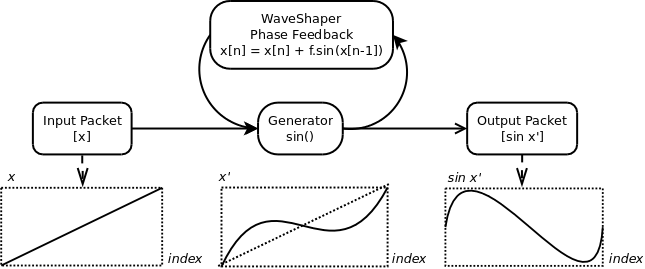
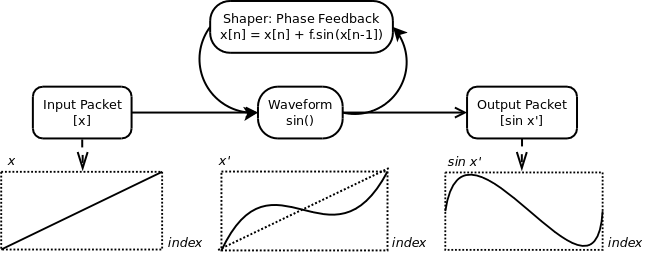
Renamed base class for waveforms and regenerated images for documentation

diff --git a/src/classmap.php b/src/classmap.php
@@ -42,9 +42,9 @@ const CLASS_MAP = [
   'ABadCafe\\Synth\\Signal\\Waveform\\Sine' => '/signal/waveform/Sine.php',
   'ABadCafe\\Synth\\Signal\\Waveform\\Factory' => '/signal/waveform/Factory.php',
   'ABadCafe\\Synth\\Signal\\Waveform\\Noise' => '/signal/waveform/Noise.php',
-  'ABadCafe\\Synth\\Signal\\Waveform\\Base' => '/signal/waveform/Base.php',
   'ABadCafe\\Synth\\Signal\\Waveform\\SawUp' => '/signal/waveform/Saw.php',
   'ABadCafe\\Synth\\Signal\\Waveform\\SawDown' => '/signal/waveform/Saw.php',
+  'ABadCafe\\Synth\\Signal\\Waveform\\Primitive' => '/signal/waveform/Primitive.php',
   'ABadCafe\\Synth\\Signal\\Waveform\\IShaper' => '/signal/waveform/Shaper.php',
   'ABadCafe\\Synth\\Signal\\Waveform\\WaveTable' => '/signal/waveform/Table.php',
   'ABadCafe\\Synth\\Signal\\Waveform\\Shaper\\FixedPhaseFeedback' => '/signal/waveform/shaper/FixedPhaseFeedback.php',

diff --git a/src/signal/waveform/Factory.php b/src/signal/waveform/Factory.php
@@ -91,7 +91,7 @@ class Factory implements Utility\IFactory {
             throw new \Exception("Invalid WaveTable length");
         }
         $oWaveform =  new Table($iSizeExp);
-        $oTableData = $oWaveform->getData();
+        $oTableData = $oWaveform->getValues();
         foreach ($oDesciption->data as $i => $fValue) {
             $oTableData[$i] = (float)$fValue;
         }

diff --git a/src/test/test_oscillator.php b/src/test/test_oscillator.php
@@ -27,7 +27,7 @@ $aWaveforms = [
     'table'         => new Signal\Waveform\Wavetable(8)
 ];
 
-$oTable = $aWaveforms['table']->getData();
+$oTable = $aWaveforms['table']->getValues();
 $fScale = 1.0 / count($oTable);
 foreach($oTable as $i => $fValue) {
     $oTable[$i] = (2 ** ($i * $fScale)) - 1.5;

diff --git a/src/signal/waveform/Primitive.php b/src/signal/waveform/Primitive.php
@@ -21,7 +21,7 @@ use ABadCafe\Synth\Signal;
 /**
  * Base class for non-flat generator functions
  */
-abstract class Base implements Signal\IWaveform {
+abstract class Primitive implements Signal\IWaveform {
 
     protected float
         $fMinLevel,

diff --git a/src/signal/waveform/Table.php b/src/signal/waveform/Table.php
@@ -50,7 +50,7 @@ class WaveTable implements Signal\IWaveform {
     /**
      * @return SPLFixedArray
      */
-    public function getData() : SPLFixedArray {
+    public function getValues() : SPLFixedArray {
         return $this->oTable;
     }
 

diff --git a/src/signal/waveform/Saw.php b/src/signal/waveform/Saw.php
@@ -24,7 +24,7 @@ use \SPLFixedArray;
  *
  * Maps input values to a upwards sawtooth output.
  */
-class SawUp extends Base {
+class SawUp extends Primitive {
 
     const F_PERIOD  = 1.0;
 

diff --git a/src/signal/waveform/Sine.php b/src/signal/waveform/Sine.php
@@ -24,7 +24,7 @@ use \SPLFixedArray;
  *
  * Maps input values to a sine wave output.
  */
-class Sine extends Base {
+class Sine extends Primitive {
 
     const F_PERIOD = 2.0 * M_PI;
 

diff --git a/src/signal/waveform/Square.php b/src/signal/waveform/Square.php
@@ -24,7 +24,7 @@ use \SPLFixedArray;
  *
  * Maps input values to a square output.
  */
-class Square extends Base {
+class Square extends Primitive {
 
     const F_PERIOD = 2.0;
 

diff --git a/src/signal/waveform/Triangle.php b/src/signal/waveform/Triangle.php
@@ -22,7 +22,7 @@ use \SPLFixedArray;
 /**
  * Basic triangle generator
  */
-class Triangle extends Base {
+class Triangle extends Primitive {
 
     const F_PERIOD = 2.0;
 
